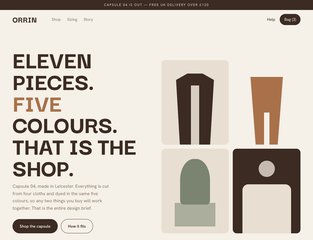
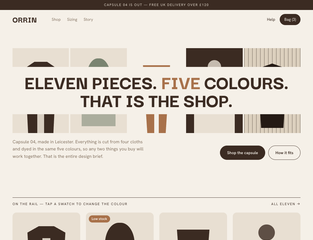
Redesign three heroes
The audit was fair: six of eleven templates had the same above-the-fold
skeleton — h1 left at 41-45% of the viewport, artwork right, in a
two-column grid of near-equal halves (573/519, 583/528, 588/532,
648/648, 592/535, 584/584). Different colours, one layout.

Went through Land-book and Siteinspire and pulled the layout vocabulary
actually in use: full-bleed overlay, corner-anchored minimal, oversized
clipped type, poster grids of flat panels, filmstrip bands, archive
contact sheets, scatter collages, centred columns. The 50/50 split is
one option among many, not the default.

Three rebuilt so far, each matched to what the brand is rather than
picked at random:

  Beauty  corner-anchored minimal — one bottle in an empty blush field,
          the four facts pinned to the corners of the fold
  Icon    archive contact sheet — the shop sells four hundred things, so
          the fold is a grid of them with the headline taking one cell
  Mod     filmstrip — five garments hung in a row with the line of the
          season laid across them on a solid band

Still on the old split: Startup, Pupper and Fun Time.

45 checks, 0 failing on the three. Screenshots re-shot so the gallery
thumbnails match.

Claude-Session: https://claude.ai/code/session_014Evizdpgtojmpx8Hck2pTY

diff --git a/demo/icon/style.css b/demo/icon/style.css
@@ -90,12 +90,36 @@ section.wrap{padding-block:clamp(2.5rem,6vw,4.5rem)}
 .mode-note{font-size:var(--t-s);color:var(--mid);margin-top:.6rem;max-width:46ch}
 .mode-note b{color:var(--ink)}
 
-/* ---------- hero ---------- */
-.hero{padding-block:clamp(2rem,5vw,4rem) 0}
-.hero-grid{display:grid;grid-template-columns:minmax(0,1fr) minmax(0,1fr);gap:clamp(1.5rem,4vw,3rem);align-items:center}
-.hero h1{font-size:var(--t-hero)}
-.hero .sub{margin-top:1rem;max-width:42ch;color:var(--mid);font-size:var(--t-l);line-height:1.55}
-.hero .actions{margin-top:1.6rem;display:flex;gap:.7rem;flex-wrap:wrap;align-items:center}
+/* ---------- hero: the archive -----------------------------------------
+   The shop holds about four hundred things, so the fold is a contact
+   sheet of them with the headline taking one cell instead of sitting in
+   a column beside a picture. The grid is the argument. */
+.hero{padding-block:clamp(1.25rem,3vw,2.25rem) 0}
+.archive{display:grid;grid-template-columns:repeat(8,minmax(0,1fr));gap:5px}
+.archive .cell{position:relative;overflow:hidden;border-radius:5px}
+.archive .cell .plate{border-radius:0;aspect-ratio:1;height:100%}
+.archive .big{grid-column:span 2;grid-row:span 2}
+.archive .big .plate{aspect-ratio:auto;height:100%}
+.archive .say{grid-column:span 4;grid-row:span 2;background:var(--plum);color:var(--stone);
+  border-radius:5px;padding:clamp(1.1rem,2.2vw,2rem);display:flex;flex-direction:column;
+  justify-content:space-between;gap:1rem;min-width:0}
+.archive .say h1{font-size:clamp(1.25rem,2.3vw,2.05rem);line-height:1.15}
+.archive .say .sub{color:#C9BCCE;font-size:var(--t-s);max-width:36ch}
+.archive .say .actions{display:flex;gap:.6rem;flex-wrap:wrap}
+.archive .say .btn{border-color:var(--stone);color:var(--stone)}
+.archive .say .btn:hover{background:var(--stone);color:var(--plum)}
+.archive .say .btn.gold{border-color:var(--gold);background:var(--gold);color:var(--ink)}
+.hero .undergrid{display:flex;justify-content:space-between;gap:1rem;flex-wrap:wrap;
+  margin-top:.9rem;font-size:var(--t-xs);letter-spacing:.14em;text-transform:uppercase;color:var(--mid)}
+@media (max-width:900px){
+  .archive{grid-template-columns:repeat(4,minmax(0,1fr))}
+  .archive .say{grid-column:span 4}
+}
+@media (max-width:520px){
+  .archive{grid-template-columns:repeat(3,minmax(0,1fr))}
+  .archive .say{grid-column:span 3}
+  .archive .big{grid-column:span 2;grid-row:span 2}
+}
 
 /* ---------- plates: shop objects ---------- */
 .plate{display:block;position:relative;overflow:hidden;aspect-ratio:1;border-radius:var(--r);background:var(--stone)}

diff --git a/demo/beauty/style.css b/demo/beauty/style.css
@@ -73,15 +73,34 @@ section.wrap{padding-block:clamp(2.5rem,6vw,4.5rem)}
 .btn.block{width:100%}
 .btn[disabled]{border-color:var(--line);color:var(--mid);background:transparent;pointer-events:none}
 
-/* ---------- hero ---------- */
+/* ---------- hero: corner-anchored --------------------------------------
+   Nothing in the middle of the fold but one bottle. The four things a
+   buyer actually wants to know are pinned to the corners, which is where
+   the eye goes once the centre has stopped competing for it. No split,
+   no grid of product shots. */
 .hero{background:var(--blush)}
 .hero .wrap{padding-block:clamp(2.5rem,6vw,4.5rem)}
-.hero-grid{display:grid;grid-template-columns:minmax(0,1.05fr) minmax(0,.95fr);gap:clamp(1.5rem,4vw,3rem);align-items:center}
-.hero h1{font-size:var(--t-hero)}
+.hero-min{position:relative;min-height:min(74vh,620px);display:grid;place-items:center;text-align:center}
+.hero-min .mid{max-width:46ch;display:grid;justify-items:center}
+.hero-min .mark{width:min(25vw,210px);aspect-ratio:3/4;border-radius:var(--r)}
+.hero h1{font-size:var(--t-hero);margin-top:1.5rem}
 .hero h1 em{font-style:italic;color:var(--petal)}
-.hero .sub{margin-top:1.1rem;max-width:42ch;color:var(--mid);font-size:var(--t-l);line-height:1.5}
-.hero .actions{margin-top:1.75rem;display:flex;gap:.7rem;flex-wrap:wrap}
-.hero .proof{margin-top:1.75rem;display:flex;gap:1.5rem;flex-wrap:wrap;font-size:var(--t-s);color:var(--mid)}
+.hero .sub{margin-top:.9rem;max-width:44ch;color:var(--mid);font-size:var(--t-l);line-height:1.5}
+.hero .actions{margin-top:1.6rem;display:flex;gap:.7rem;flex-wrap:wrap;justify-content:center}
+.corner{position:absolute;font-size:var(--t-xs);letter-spacing:.14em;text-transform:uppercase;
+  color:var(--mid);max-width:16ch;line-height:1.6}
+.corner.tl{top:0;left:0;text-align:left}
+.corner.tr{top:0;right:0;text-align:right}
+.corner.bl{bottom:0;left:0;text-align:left}
+.corner.br{bottom:0;right:0;text-align:right}
+/* On a phone there are no corners to speak of, so they become a plain
+   two-column footnote under the headline. */
+@media (max-width:760px){
+  .hero-min{min-height:0;gap:2rem}
+  .corners{display:grid;grid-template-columns:1fr 1fr;gap:1rem;width:100%;text-align:left}
+  .corner{position:static;max-width:none;text-align:left}
+  .corner.tr,.corner.br{text-align:left}
+}
 
 /* ---------- plates: bottles and jars ---------- */
 .plate{display:block;position:relative;overflow:hidden;aspect-ratio:1;border-radius:var(--r);background:var(--blush)}

diff --git a/demo/icon/index.html b/demo/icon/index.html
@@ -37,21 +37,32 @@
 
 <main>
   <section class="hero wrap">
-    <div class="hero-grid">
-      <div>
+    <div class="archive">
+      <div class="say">
         <h1 class="prata">Everything here is also on a shelf you can walk to.</h1>
-        <p class="sub">A shop of about four hundred things on Vine Street, open since 2016. Most of it is made within two hundred miles and we have met nearly everyone who makes it.</p>
+        <p class="sub">About four hundred things on Vine Street, open since 2016. Most of it is made within two hundred miles and we have met nearly everyone who makes it.</p>
         <div class="actions">
-          <a class="btn solid" href="shop.html">Browse the shop</a>
+          <a class="btn gold" href="shop.html">Browse the shop</a>
           <a class="btn" href="visit.html">Opening hours</a>
         </div>
       </div>
-      <div style="display:grid;grid-template-columns:1fr 1fr;gap:.85rem">
-        <span class="plate o1" aria-hidden="true"></span>
-        <span class="plate o2" aria-hidden="true"></span>
-        <span class="plate o6" aria-hidden="true"></span>
-        <span class="plate o4" aria-hidden="true"></span>
-      </div>
+      <span class="cell big"><span class="plate o2" aria-hidden="true"></span></span>
+      <span class="cell"><span class="plate o1" aria-hidden="true"></span></span>
+      <span class="cell"><span class="plate o3" aria-hidden="true"></span></span>
+      <span class="cell"><span class="plate o5" aria-hidden="true"></span></span>
+      <span class="cell"><span class="plate o6" aria-hidden="true"></span></span>
+      <span class="cell"><span class="plate o4" aria-hidden="true"></span></span>
+      <span class="cell"><span class="plate o2" aria-hidden="true"></span></span>
+      <span class="cell"><span class="plate o5" aria-hidden="true"></span></span>
+      <span class="cell"><span class="plate o1" aria-hidden="true"></span></span>
+      <span class="cell"><span class="plate o3" aria-hidden="true"></span></span>
+      <span class="cell"><span class="plate o6" aria-hidden="true"></span></span>
+      <span class="cell"><span class="plate o2" aria-hidden="true"></span></span>
+      <span class="cell"><span class="plate o4" aria-hidden="true"></span></span>
+    </div>
+    <div class="undergrid">
+      <span>Sixteen of about four hundred shown</span>
+      <span>14 Vine Street · open today until 6</span>
     </div>
   </section>
 

diff --git a/demo/mod/style.css b/demo/mod/style.css
@@ -74,13 +74,28 @@ section.wrap{padding-block:clamp(2.5rem,6vw,4.5rem)}
 .btn.block{width:100%}
 .btn[disabled]{border-color:var(--line);color:var(--mid);background:transparent;pointer-events:none}
 
-/* ---------- hero ---------- */
-.hero{padding-block:clamp(1.5rem,4vw,3rem) 0}
-.hero-grid{display:grid;grid-template-columns:minmax(0,1fr) minmax(0,1fr);gap:clamp(1.25rem,3vw,2.5rem);align-items:end}
-.hero h1{font-size:var(--t-hero);text-transform:uppercase}
-.hero h1 em{font-style:normal;color:var(--tan)}
-.hero .sub{margin-top:1.1rem;max-width:40ch;color:var(--mid)}
-.hero .actions{margin-top:1.6rem;display:flex;gap:.7rem;flex-wrap:wrap}
+/* ---------- hero: the rail --------------------------------------------
+   Five garments hung in a row and the line of the season laid straight
+   across them on a solid band. The clothes carry the fold; the words sit
+   on top of them rather than in a column beside a picture. */
+.hero{padding-block:clamp(1rem,2.5vw,1.75rem) 0}
+.rail-hero{position:relative}
+.rail-hero .strip{display:grid;grid-template-columns:repeat(5,minmax(0,1fr));gap:5px}
+.rail-hero .strip .plate{aspect-ratio:2/3;border-radius:0}
+.rail-hero .band{position:absolute;left:0;right:0;top:50%;transform:translateY(-50%);
+  background:var(--bone);padding-block:clamp(.7rem,1.8vw,1.4rem);text-align:center}
+.rail-hero h1{font-size:clamp(1.6rem,6.4vw,5rem);text-transform:uppercase;line-height:.9}
+.rail-hero h1 em{font-style:normal;color:var(--tan)}
+.hero .underrail{display:grid;grid-template-columns:minmax(0,1.3fr) auto;gap:1.5rem;
+  align-items:end;margin-top:1.1rem}
+.hero .sub{max-width:52ch;color:var(--mid)}
+.hero .actions{display:flex;gap:.7rem;flex-wrap:wrap}
+/* Below 760 a five-up filmstrip is five slivers, so it drops to three. */
+@media (max-width:760px){
+  .rail-hero .strip{grid-template-columns:repeat(3,minmax(0,1fr))}
+  .rail-hero .strip .plate:nth-child(n+4){display:none}
+  .hero .underrail{grid-template-columns:1fr}
+}
 
 /* ---------- plates: garments recoloured by custom property ----------------
    Every shape paints with var(--f) on var(--b), so one class on the plate

diff --git a/demo/mod/index.html b/demo/mod/index.html
@@ -31,20 +31,23 @@
 
 <main>
   <section class="hero wrap">
-    <div class="hero-grid">
-      <div>
-        <h1 class="dg">Eleven pieces.<br><em>Five</em> colours.<br>That is the shop.</h1>
-        <p class="sub">Capsule 04, made in Leicester. Everything is cut from four cloths and dyed in the same five colours, so any two things you buy will work together. That is the entire design brief.</p>
-        <div class="actions">
-          <a class="btn solid" href="shop.html">Shop the capsule</a>
-          <a class="btn" href="sizing.html">How it fits</a>
-        </div>
+    <div class="rail-hero">
+      <div class="strip">
+        <span class="plate m1 c-espresso" aria-hidden="true"></span>
+        <span class="plate m3 c-sage" aria-hidden="true"></span>
+        <span class="plate m2 c-tan" aria-hidden="true"></span>
+        <span class="plate m5 c-bone" aria-hidden="true"></span>
+        <span class="plate m4 c-black" aria-hidden="true"></span>
       </div>
-      <div style="display:grid;grid-template-columns:1fr 1fr;gap:.9rem">
-        <span class="plate m1 c-espresso" style="border-radius:14px" aria-hidden="true"></span>
-        <span class="plate m2 c-tan" style="border-radius:14px" aria-hidden="true"></span>
-        <span class="plate m3 c-sage" style="border-radius:14px" aria-hidden="true"></span>
-        <span class="plate m5 c-bone" style="border-radius:14px" aria-hidden="true"></span>
+      <div class="band">
+        <h1 class="dg">Eleven pieces. <em>Five</em> colours. That is the shop.</h1>
+      </div>
+    </div>
+    <div class="underrail">
+      <p class="sub">Capsule 04, made in Leicester. Everything is cut from four cloths and dyed in the same five colours, so any two things you buy will work together. That is the entire design brief.</p>
+      <div class="actions">
+        <a class="btn solid" href="shop.html">Shop the capsule</a>
+        <a class="btn" href="sizing.html">How it fits</a>
       </div>
     </div>
   </section>

diff --git a/demo/beauty/index.html b/demo/beauty/index.html
@@ -31,25 +31,21 @@
 
 <main>
   <section class="hero">
-    <div class="wrap">
-      <div class="hero-grid">
-        <div>
-          <h1 class="serif">Ten products. <em>Every</em> percentage on the label.</h1>
-          <p class="sub">Most skincare hides the one number that matters. Ours is on the front of the bottle, because a 0.3% retinal and a 1% retinal are not the same product at the same price.</p>
-          <div class="actions">
-            <a class="btn solid" href="routines.html">Build my routine</a>
-            <a class="btn" href="shop.html">Shop all ten</a>
-          </div>
-          <div class="proof">
-            <span>Made in Hampshire</span><span>Cruelty free</span><span>Refillable from 2027</span>
-          </div>
+    <div class="wrap hero-min">
+      <div class="mid">
+        <span class="plate b1 mark" aria-hidden="true"></span>
+        <h1 class="serif">Ten products. <em>Every</em> percentage on the label.</h1>
+        <p class="sub">Most skincare hides the one number that matters. Ours is on the front of the bottle, because a 0.3% retinal and a 1% retinal are not the same product at the same price.</p>
+        <div class="actions">
+          <a class="btn solid" href="routines.html">Build my routine</a>
+          <a class="btn" href="shop.html">Shop all ten</a>
         </div>
-        <div style="display:grid;grid-template-columns:1fr 1fr;gap:.85rem">
-          <span class="plate b1" aria-hidden="true"></span>
-          <span class="plate b3" aria-hidden="true"></span>
-          <span class="plate b5" aria-hidden="true"></span>
-          <span class="plate b2" aria-hidden="true"></span>
-        </div>
+      </div>
+      <div class="corners">
+        <p class="corner tl">Ten products,<br>no eleventh</p>
+        <p class="corner tr">Made in<br>Hampshire</p>
+        <p class="corner bl">Cruelty free,<br>always</p>
+        <p class="corner br">Refillable<br>from 2027</p>
       </div>
     </div>
   </section>
